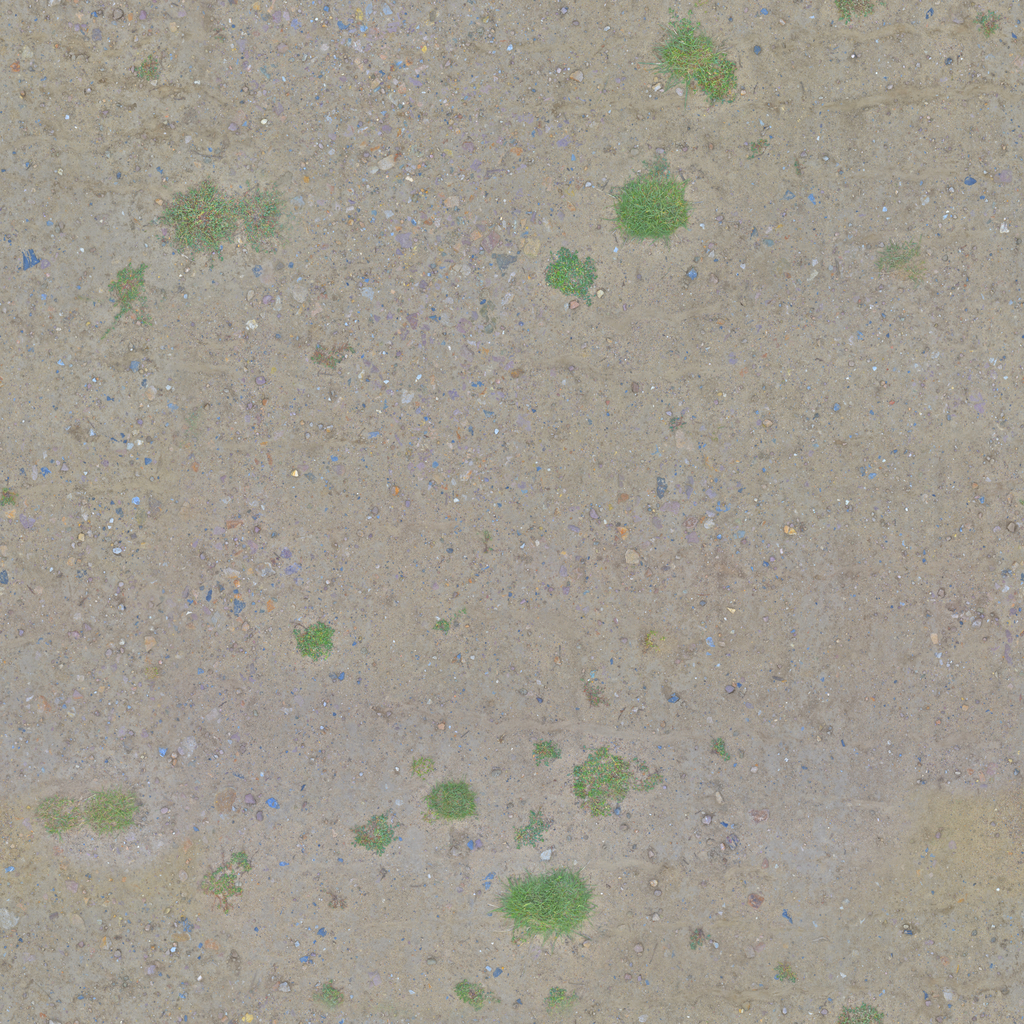
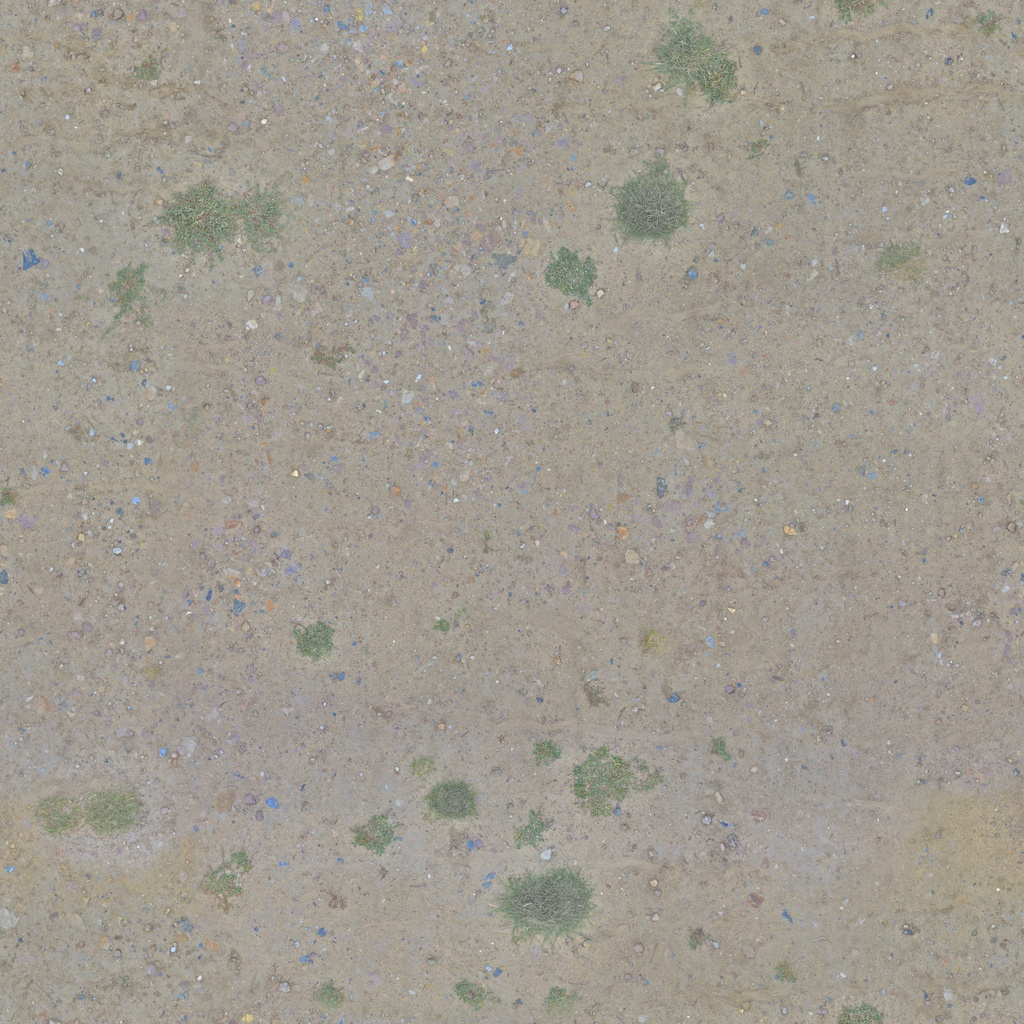
WIP: EV4-textures round 2 -- desaturate moss in-texture, revert tint to warm
Local checkpoint before re-render/re-critique. Not pushed.

diff --git a/docs/ASSET_LEDGER.md b/docs/ASSET_LEDGER.md
@@ -64,7 +64,7 @@ at the time it was fetched, not as remembered.
 | Grass004 — colour, normal, roughness | ambientCG | [ambientCG Grass004](https://ambientcg.com/view?id=Grass004) | CC0 1.0 | No | `assets/environment/terrain/Grass004_*.jpg` | 2K JPG. Was the base ground layer; kept, unused, as the dry-grass variant for a future second biome pass. |
 | Ground003 — colour, normal, roughness | ambientCG | [ambientCG Ground003](https://ambientcg.com/view?id=Ground003) | CC0 1.0 | No | `assets/environment/terrain/Ground003_*.jpg` | 2K JPG. Soil/dirt layer. |
 | Rock030 — colour, normal, roughness | ambientCG | [ambientCG Rock030](https://ambientcg.com/view?id=Rock030) | CC0 1.0 | No | `assets/environment/terrain/Rock030_*.jpg` | 2K JPG. Slope layer, blended by the auto shader. |
-| Ground030 — colour, normal | ambientCG | [ambientCG Ground030](https://ambientcg.com/view?id=Ground030) | CC0 1.0 | No | `assets/environment/terrain/Ground030_*.jpg` | 1K JPG (downloaded at the 1K tier directly, matching the rest of the array at 1024²). Dirt/pebble pathway texture, already breaking into grass at its own edges. Sourced for `EV4`'s "paths as a control-map material, not a colour-map tint" fix; wired into `terrain_playground.json` as the `path` texture entry (EV4 round 5) — see `DONE.md`. |
+| Ground030 — colour, normal | ambientCG | [ambientCG Ground030](https://ambientcg.com/view?id=Ground030) | CC0 1.0 | No | `assets/environment/terrain/Ground030_*.jpg` | 1K JPG (downloaded at the 1K tier directly, matching the rest of the array at 1024²). Dirt/pebble pathway texture, already breaking into grass at its own edges. Sourced for `EV4`'s "paths as a control-map material, not a colour-map tint" fix; wired into `terrain_playground.json` as the `path` texture entry (EV4 round 5) — see `DONE.md`. **`Color.jpg` locally edited by `EV4-textures`** (CC0 permits derivatives): the photo's own moss patches measured too saturated to a blind critic; the largest connected moss regions (hue 70-170°, sat>0.20, feathered mask) are blended 85% toward their own luminance in place, taking moss saturation from ~0.36 to ~0.16 — same photo, same pebble/moss detail, just less garish. `Normal.jpg` untouched. |
 | Ground037 — colour, normal | ambientCG | [ambientCG Ground037](https://ambientcg.com/view?id=Ground037) | CC0 1.0 | No | `assets/environment/terrain/Ground037_*.jpg` | 1K JPG, same tier as above. Damp, mossy forest-floor grass — bible sec8's "Deep Grass / Forest Floor" layer. Sourced alongside `Ground030`; still unused, see the `EV4-hillside-seam` entry in `BACKLOG.md` for whoever wires it in with `EV3`. |
 | UI Pack (RPG Expansion) — 97 files | Kenney | [UI Pack — RPG Expansion](https://kenney.nl/assets/ui-pack-rpg-expansion) | CC0 1.0 | No | `assets_raw/vendor/kenney_ui-pack-rpg-expansion/` | Staged raw per `EV1`, not yet imported into a scene. Panels/buttons/sliders for `EV9`'s HUD rebuild. |
 | UI Pack — 1343 files | Kenney | [UI Pack](https://kenney.nl/assets/ui-pack) | CC0 1.0 | No | `assets_raw/vendor/kenney_ui-pack/` | Staged raw per `EV1`. Broad source of panel corners, tabs, bars, sliders, toggles for `EV9`. |
